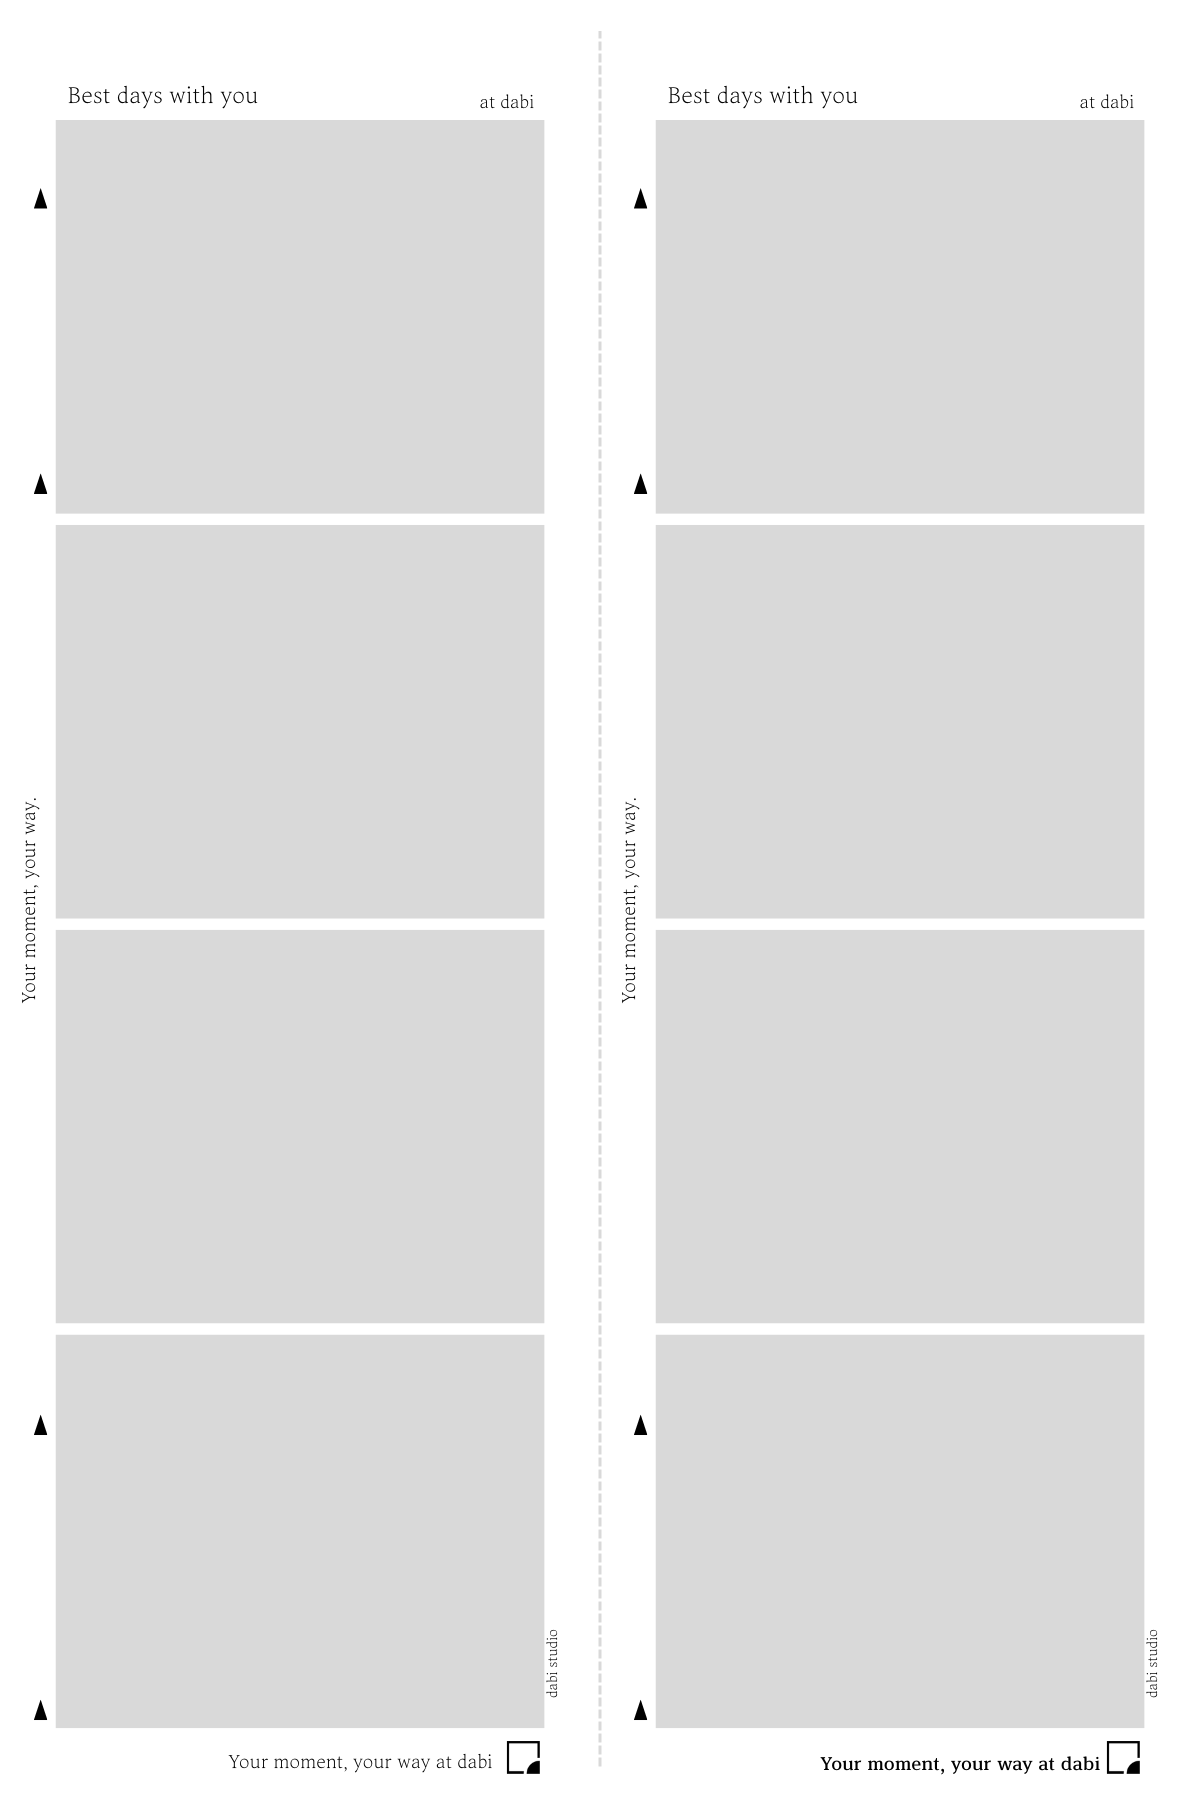
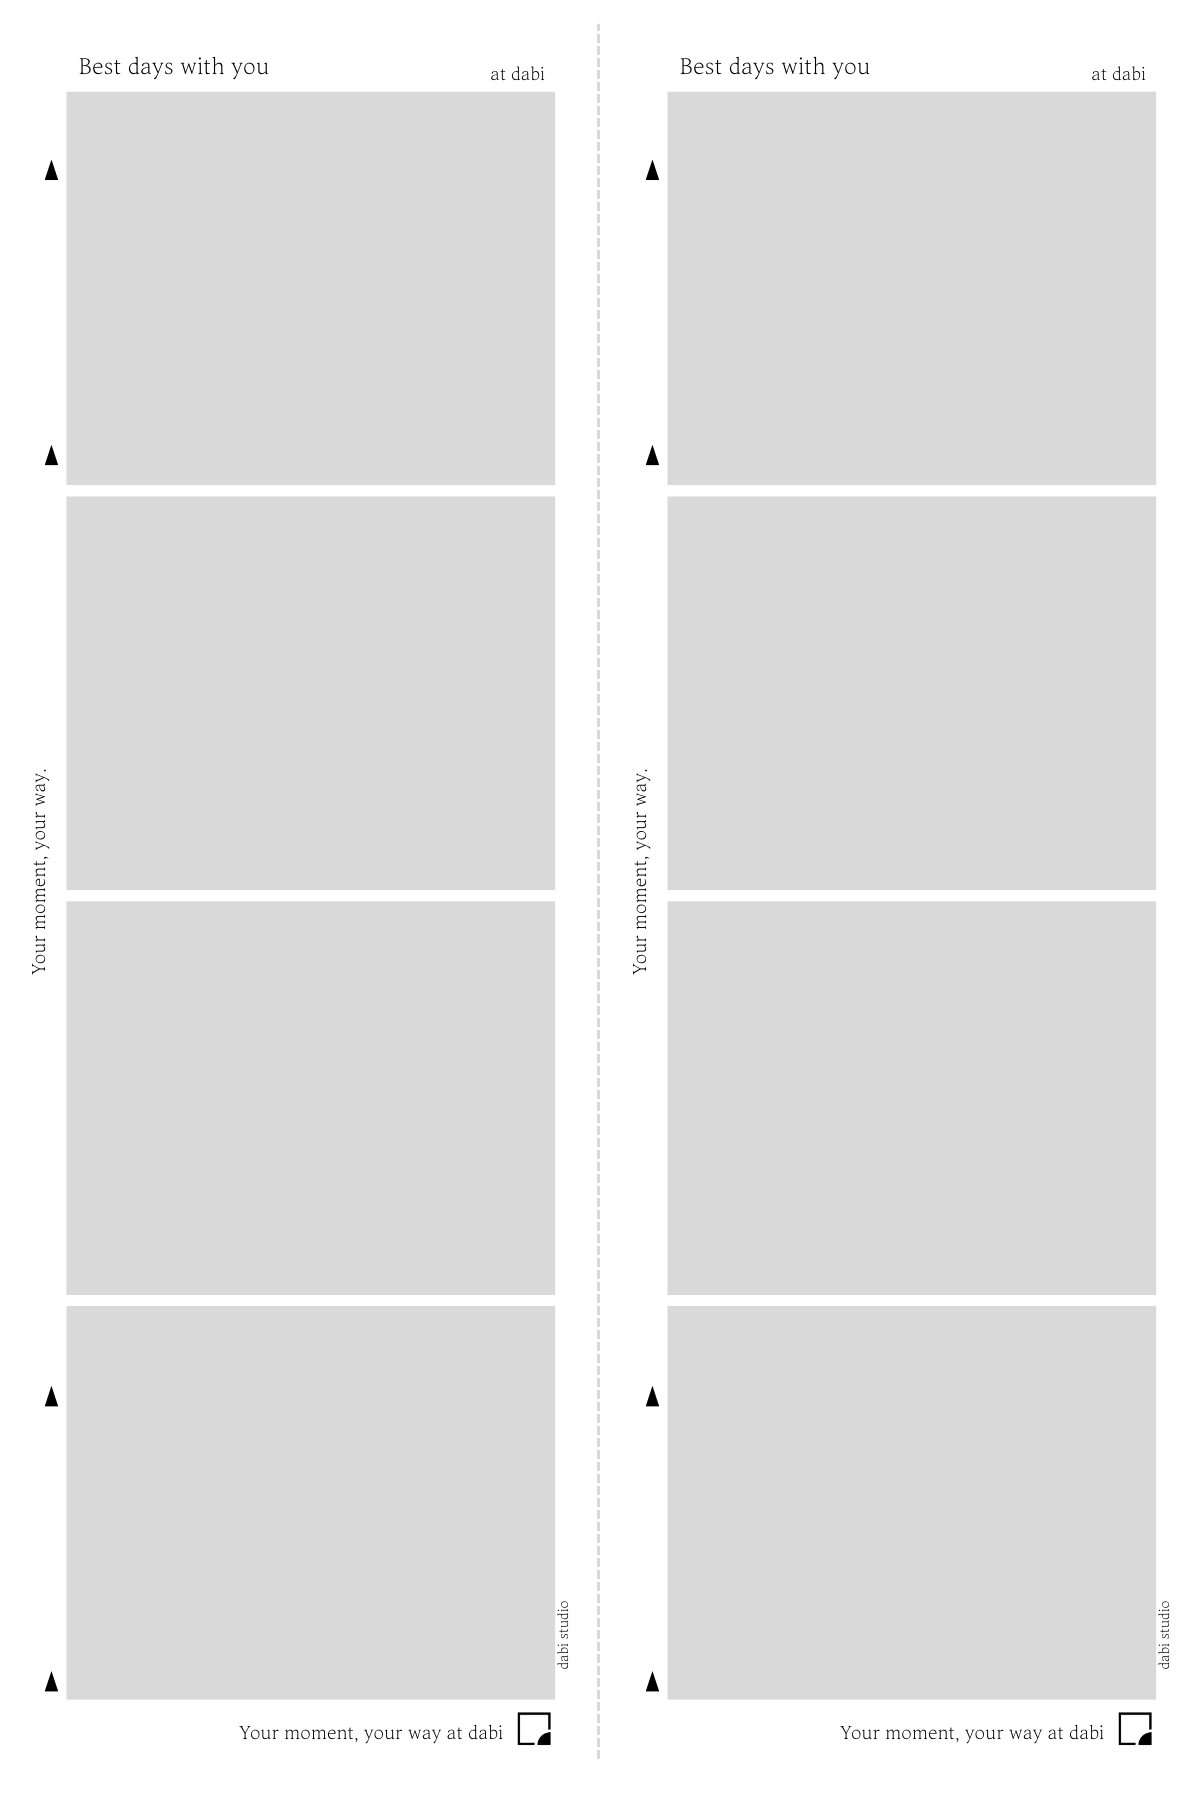
feat: refine 8-cut frame layout

Changed region(s): [[0.4933, 0.0311, 0.9867, 0.9956], [0.0, 0.0311, 0.4625, 0.9956]]

diff --git a/src/types/frame.ts b/src/types/frame.ts
@@ -441,14 +441,14 @@ const RAW_FRAME_LAYOUTS: Record<FrameType, FrameLayout> = {
     canvasHeight: VERTICAL.height,
     frameColor: "#ffffff",
     slots: [
-      { id: "slot-1", x: 22, y: 47, width: 197, height: 157 },
-      { id: "slot-2", x: 22, y: 209, width: 197, height: 157 },
-      { id: "slot-3", x: 22, y: 371, width: 197, height: 157 },
-      { id: "slot-4", x: 22, y: 533, width: 197, height: 157 },
-      { id: "slot-5", x: 264, y: 47, width: 197, height: 157 },
-      { id: "slot-6", x: 264, y: 209, width: 197, height: 157 },
-      { id: "slot-7", x: 264, y: 371, width: 197, height: 157 },
-      { id: "slot-8", x: 264, y: 533, width: 197, height: 157 }
+      { id: "slot-1", x: 26, y: 37, width: 197, height: 158 },
+      { id: "slot-2", x: 26, y: 198, width: 197, height: 158 },
+      { id: "slot-3", x: 26, y: 359, width: 197, height: 158 },
+      { id: "slot-4", x: 26, y: 520, width: 197, height: 158 },
+      { id: "slot-5", x: 268, y: 37, width: 197, height: 158 },
+      { id: "slot-6", x: 268, y: 198, width: 197, height: 158 },
+      { id: "slot-7", x: 268, y: 359, width: 197, height: 158 },
+      { id: "slot-8", x: 268, y: 520, width: 197, height: 158 }
     ]
   },
   "8v_2": {
